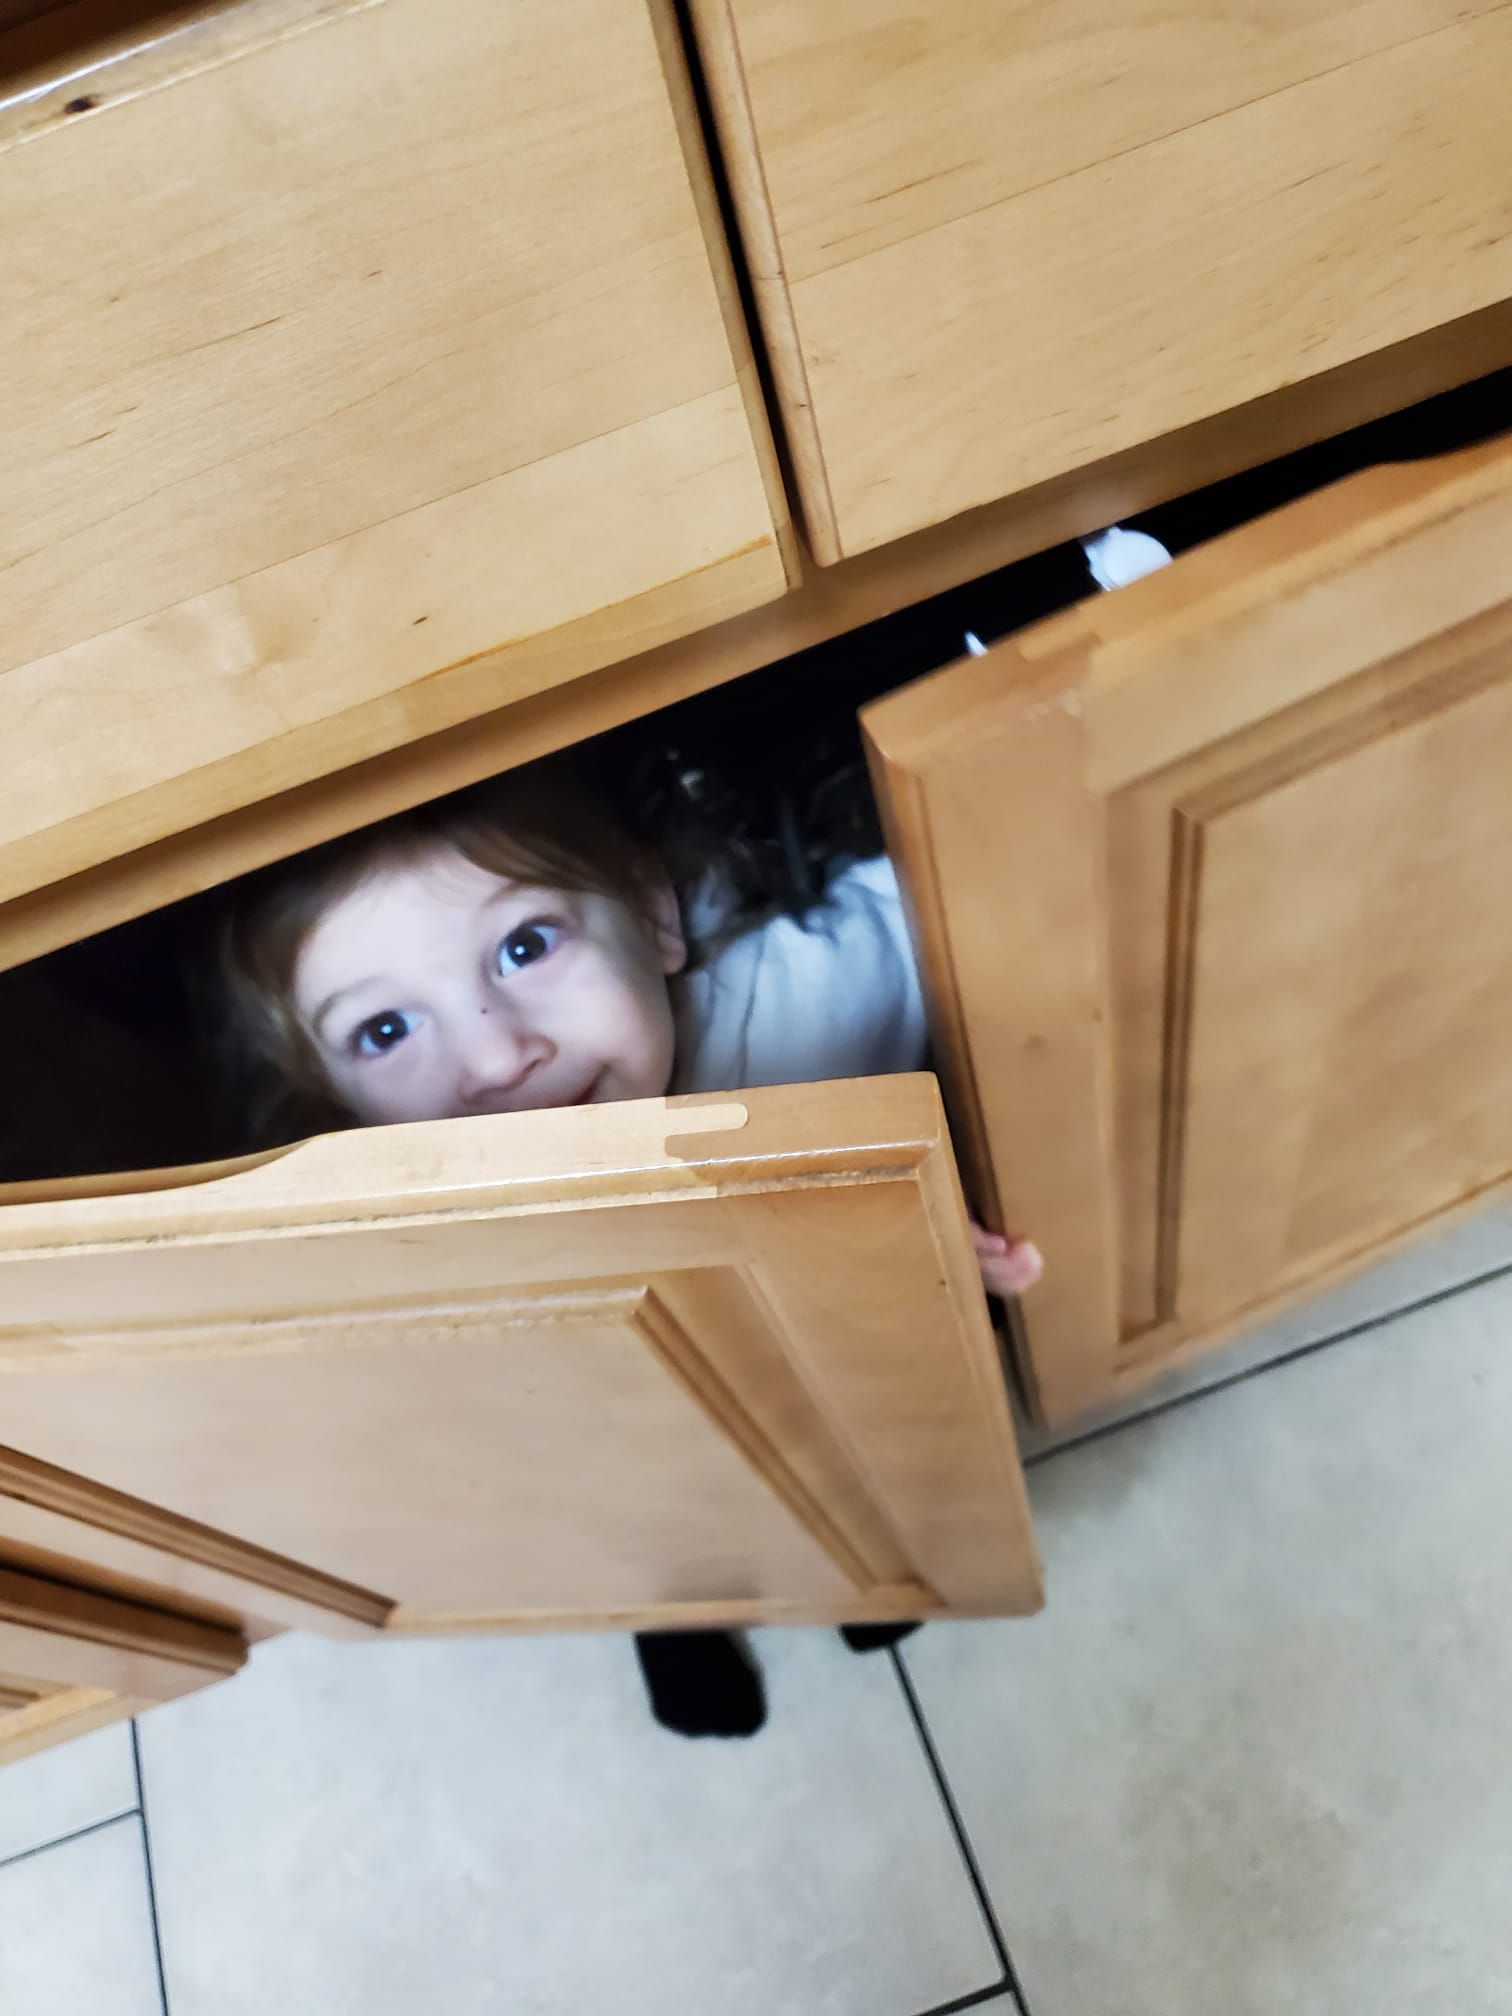
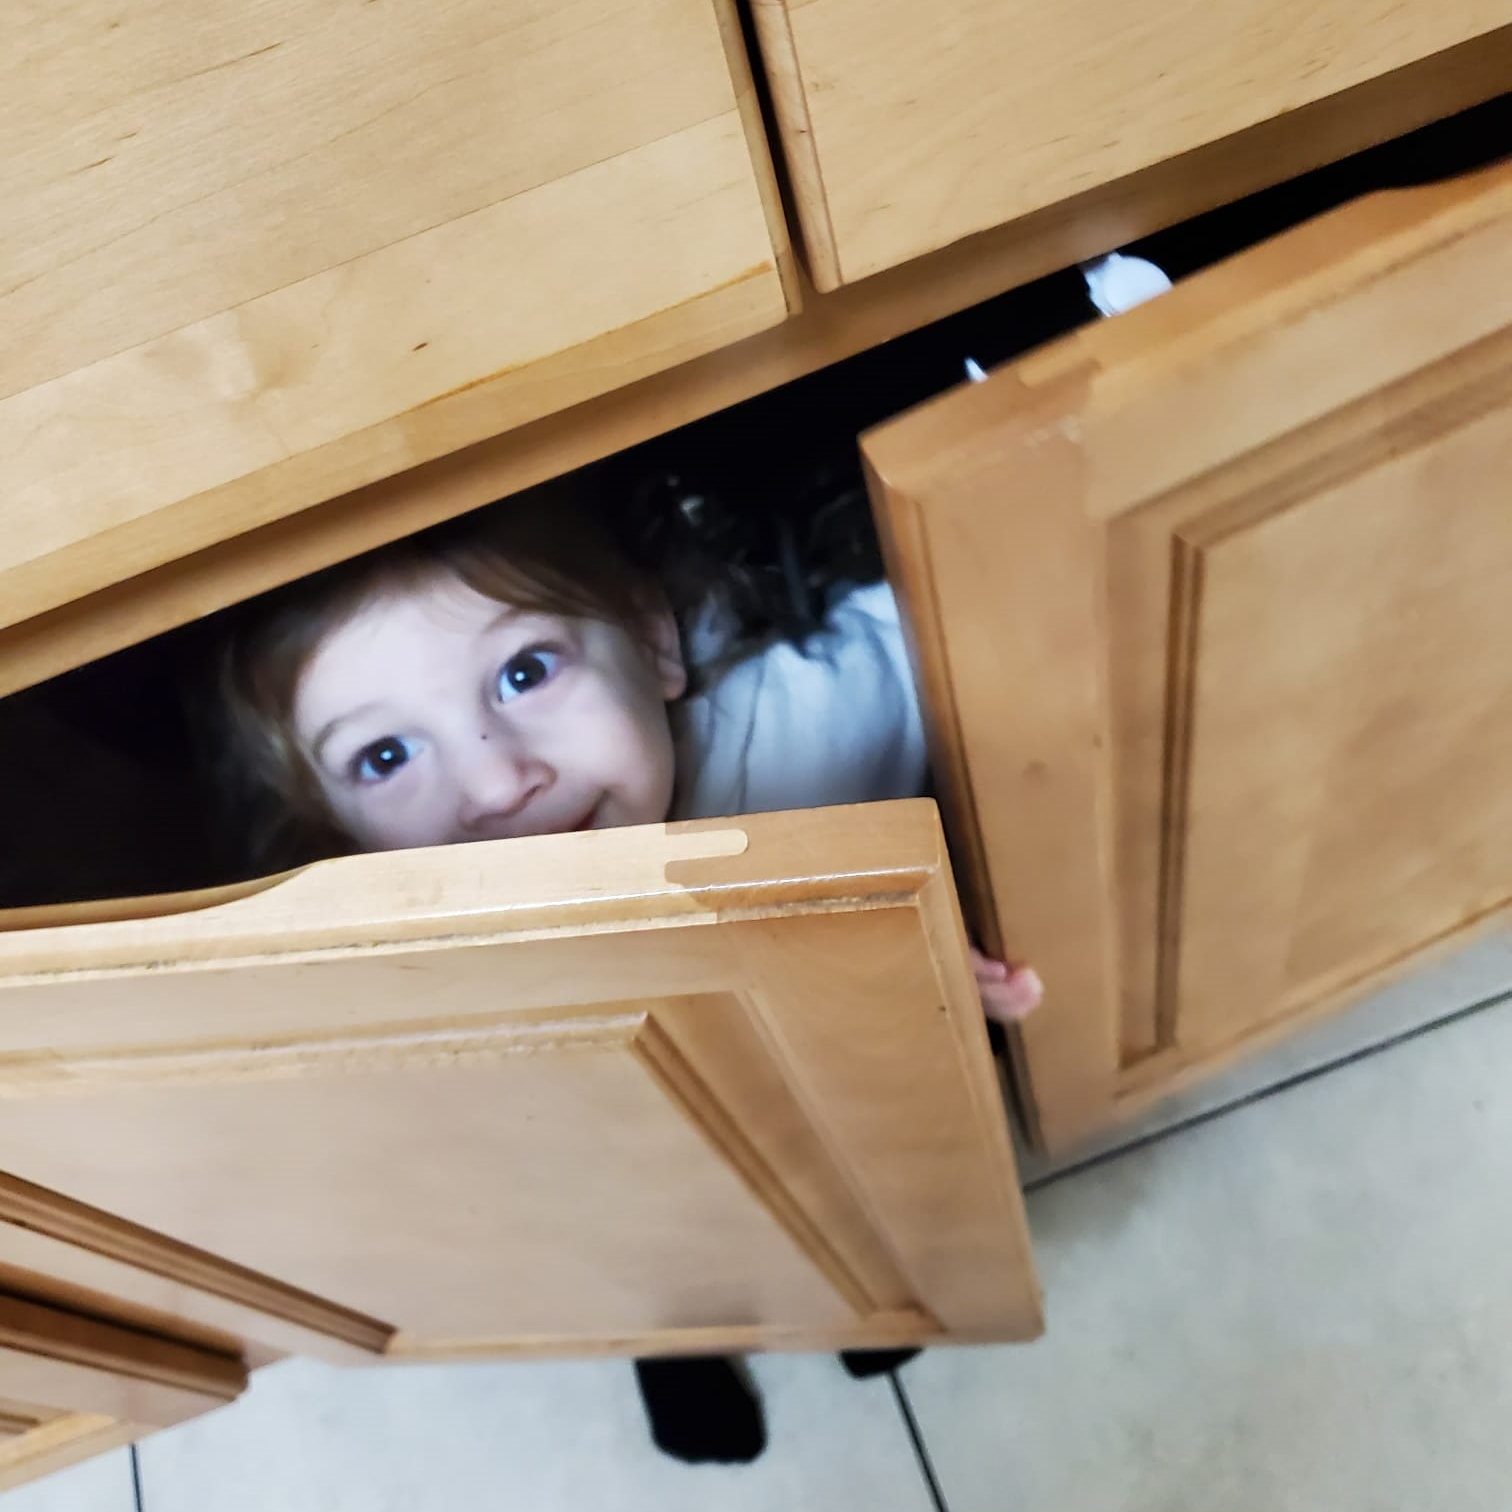
edited pictures to better fit cards

diff --git a/memory-game/style.css b/memory-game/style.css
@@ -45,17 +45,17 @@
 }
 #game-board img[src="./pics/family-lancaster.jpg"] {
     background-color: #ffffff;
-    width: 100px;
+    width: 150px;
     height: 150px;
-    padding-left: 25px;
-    padding-right: 25px;
+    padding-left: 0px;
+    padding-right: 0px;
 }
 #game-board img[src="./pics/kids-costumes.jpg"] {
     background-color: #ffffff;
-    width: 100px;
+    width: 150px;
     height: 150px;
-    padding-left: 25px;
-    padding-right: 25px;
+    padding-left: 0px;
+    padding-right: 0px;
 }
 #game-board img[src="./pics/kids-ice-cream.jpg"] {
     background-color: #ffffff;
@@ -73,36 +73,36 @@
 }
 #game-board img[src="./pics/kids-store.jpg"] {
     background-color: #ffffff;
-    width: 100px;
+    width: 150px;
     height: 150px;
-    padding-left: 25px;
-    padding-right: 25px;
+    padding-left: 0px;
+    padding-right: 0px;
 }
 #game-board img[src="./pics/me-mordy-dentist.jpg"] {
     background-color: #ffffff;
-    width: 120px;
+    width: 150px;
     height: 150px;
-    padding-left: 15px;
-    padding-right: 15px;
+    padding-left: 0px;
+    padding-right: 0px;
 }
 #game-board img[src="./pics/mordy-cabinet.jpg"] {
     background-color: #ffffff;
-    width: 100px;
+    width: 150px;
     height: 150px;
-    padding-left: 25px;
-    padding-right: 25px;
+    padding-left: 0px;
+    padding-right: 0px;
 }
 #game-board img[src="./pics/mordy-laundry.jpg"] {
     background-color: #ffffff;
-    width: 120px;
+    width: 150px;
     height: 150px;
-    padding-left: 15px;
-    padding-right: 15px;
+    padding-left: 0px;
+    padding-right: 0px;
 }
 #game-board img[src="./pics/mordy-toolset.jpg"] {
     background-color: #ffffff;
-    width: 100px;
+    width: 150px;
     height: 150px;
-    padding-left: 25px;
-    padding-right: 25px;
+    padding-left: 0px;
+    padding-right: 0px;
 }
